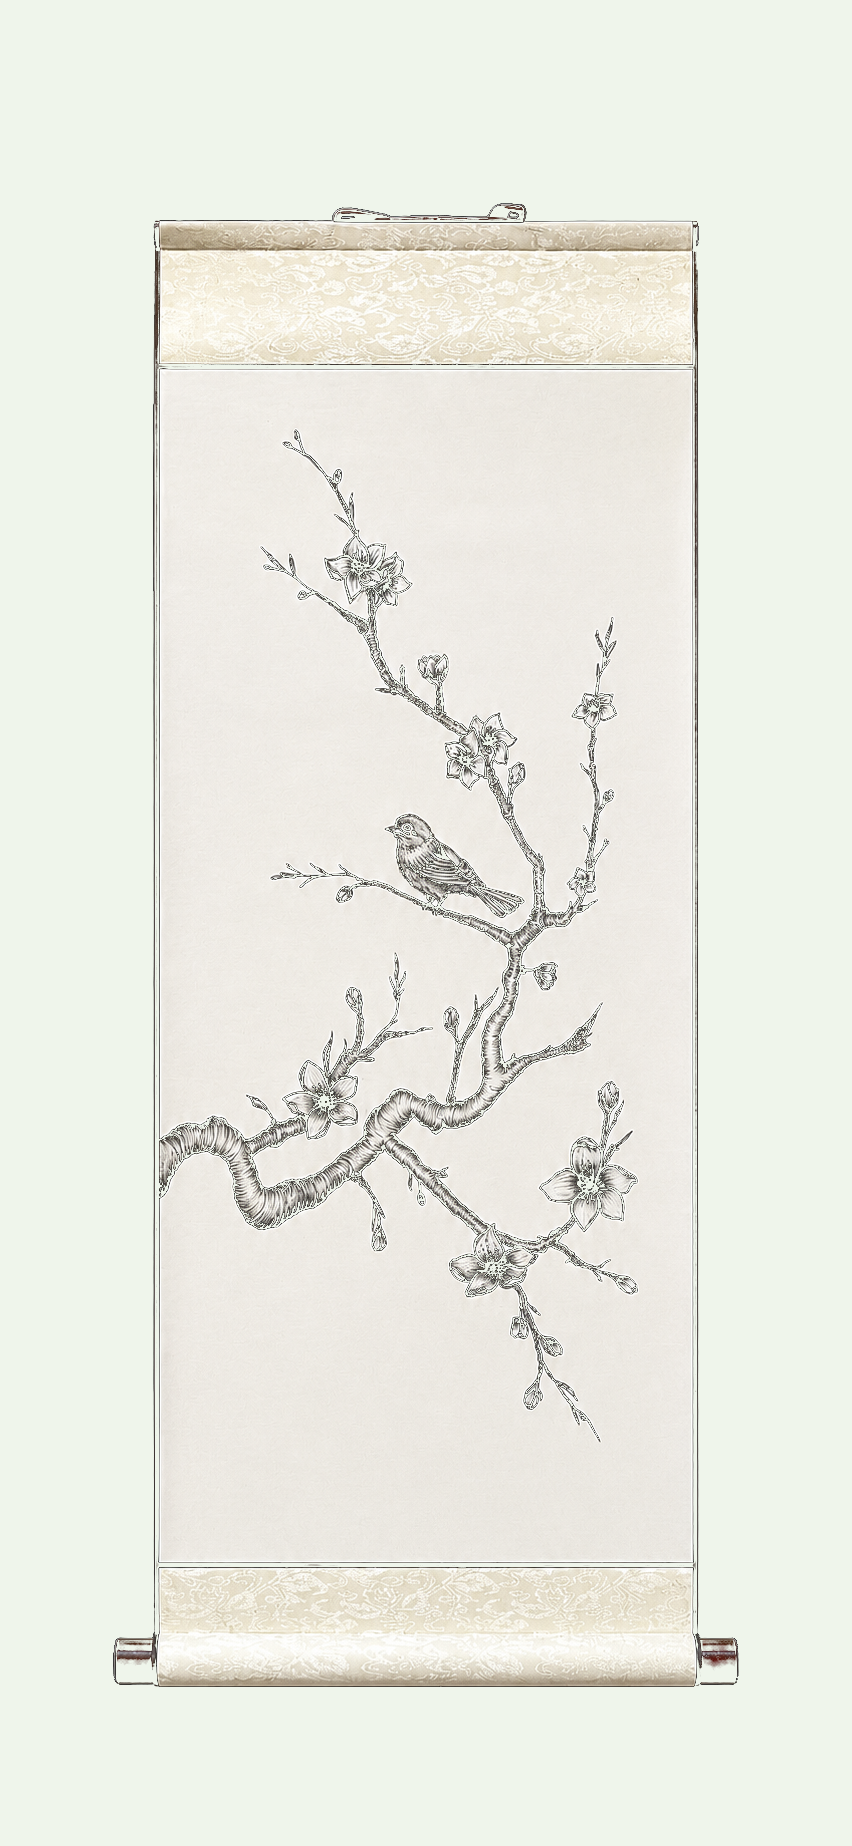
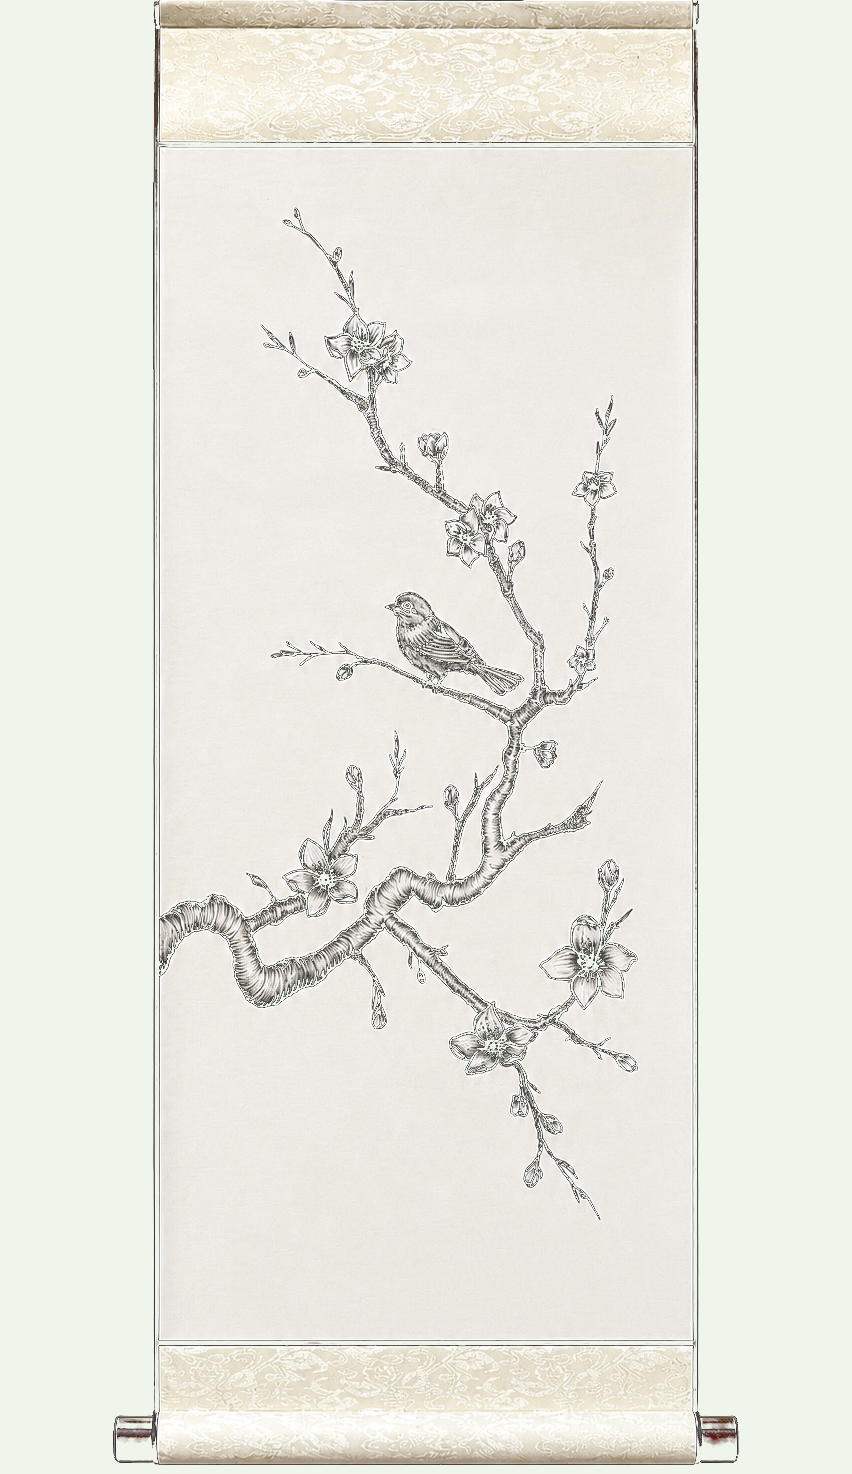
Match penguin/sunflowers frame thickness to bouquet, blend scroll with site
Three image fixes correcting earlier overcropping:

1. improvedpenguin.png: restored original 1117x1408 from Downloads,
   then replaced its pure-white outer margin pixels (R+G+B > 700) with
   pure black. The white margin now reads as an extension of the
   photographed frame -- visual frame thickness ~85px, matching the
   bouquet/lovebirds reference (~80px). Feathered blend in the 640-700
   sum range so the transition is smooth rather than a hard edge.

2. improvedwatercolorflowers.png: restored original 1152x1365, cropped
   off rows 1290+ (the spurious second dark band the photo accidentally
   captured), then replaced white-margin pixels with black, then padded
   the bottom by 77px of black to make the frame thickness match
   top/sides. Result: 1152x1367, frame ~80px uniform on all four sides.
   The crooked-looking frame is now visually consistent with the other
   paintings.

3. scroll_full.png: cropped off the outer jasmin padding (~220px top,
   ~150px bottom) so the image is now just the scroll content itself
   (852x1474). Updated the specialty-piece tile to match the new
   aspect-ratio (852/1474), and made its background transparent so the
   site's jasmin-pattern flows through any letterboxing. Previously the
   scroll image had a 220px+ solid-jasmin block at top/bottom that read
   as a flat rectangle against the site's textured jasmin background;
   now there's no solid jasmin in the image -- the site's actual
[…]

Changed region(s): [[0.1526, 0.0, 0.8239, 0.8114], [0.1221, 0.8426, 0.885, 0.9986], [0.3052, 0.2809, 0.3357, 0.3121]]

diff --git a/index.html b/index.html
@@ -214,7 +214,11 @@ nav ul{align-items:center;}
 .gallery-item.specialty-piece{
   cursor:pointer;
   grid-column:span 3; /* same width as A4, tallness comes from the aspect */
-  aspect-ratio:852 / 1846;
+  aspect-ratio:852 / 1474; /* matches the cropped scroll image (content only, no outer padding) */
+  /* Transparent so the site's jasmin-pattern flows through any letterboxing
+     in the tile, instead of a solid jasmin block contrasting with the textured site bg. */
+  background:transparent;
+  box-shadow:none;
 }
 .gallery-item.specialty-piece img{
   /* Override default img aspect-ratio — tile already enforces the right aspect */
